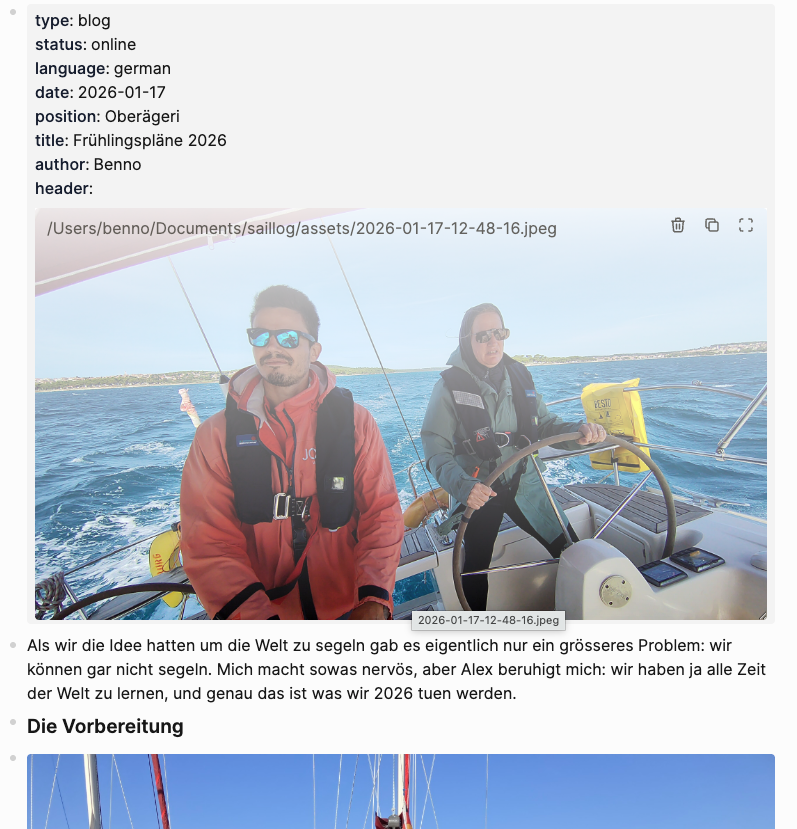
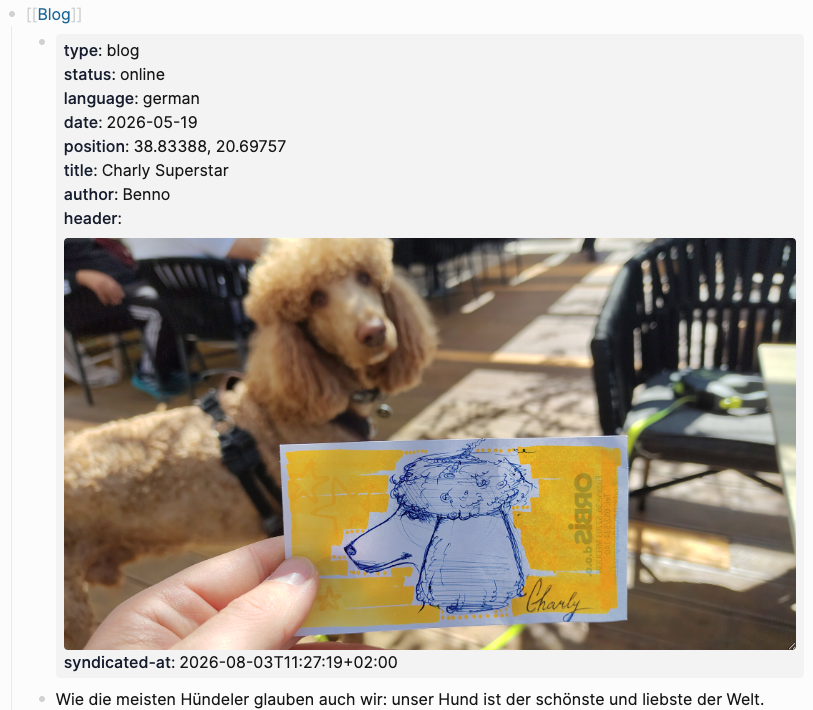
better example

diff --git a/README.md b/README.md
@@ -12,8 +12,8 @@ Use [Logseq](https://logseq.com) as your blog editor. Write posts in your graph 
 ```
 Logseq-Blogger uses the `logseq-blog` interface to retrieve blog posts from a Logseq Graph and forwards these blog posts to Syndicator using the `syndicate` interface. 
 
-* The [logseq-blog interface](#logseq-blog-interface) specified below. 
-* The `syndicator` interface specified in [syndicator](https://github.com/bbaumgartner/syndicator). 
+* The [logseq-blog interface](#logseq-blog-interface) is specified below. 
+* The `syndicator` interface is specified in [syndicator](https://github.com/bbaumgartner/syndicator). 
 
 ## Commands
 
@@ -71,18 +71,20 @@ Metadata lives in the first list item under a parent (commonly `[[Blog]]`). Sibl
 
 ```markdown
 - [[Blog]]
-  - type:: blog
-    status:: online
-    language:: german
-    date:: 2026-01-17
-    position:: Oberägeri
-    title:: Frühlingspläne 2026
-    author:: Benno
-    header:: ![alt](../assets/2026_01_17/featured.jpeg)
-  - First paragraph of content
-  - ### Section Heading
-  - More content here
-  - ![photo.jpg](../assets/2026_01_17/photo.jpg)
+	-
+	  type:: blog
+	  status:: online
+	  language:: german
+	  date:: 2026-05-19
+	  position:: 38.83388, 20.69757
+	  title:: Charly Superstar
+	  author:: Benno
+	  header:: ![charly-superstar.jpg](../assets/charly-superstar_1779210265357_0.jpg)
+	  syndicated-at:: 2026-08-03T11:27:19+02:00
+	- Wie die meisten Hündeler glauben auch wir: unser Hund ist der schönste und liebste der Welt.
+	- ![charly-drinkt.mp4](../assets/charly-drinkt_1785678123966_0.mp4)
+	- Charly scheint aber wirklich eine besondere Wirkung auf die Menschen zu haben.
+	- {{video https://youtube.com/shorts/_yNn9MUXBaw}}
 ```
 
 - Properties are indented under the `type:: blog` bullet
@@ -97,17 +99,17 @@ Properties at the top of the file; body as list items below.
 ```markdown
 type:: blog
 status:: online
-language:: english
-date:: 2024-06-14
-position:: 38.98000,1.430000
-title:: Renan
+language:: german
+date:: 2026-05-19
+position:: 38.83388, 20.69757
+title:: Charly Superstar
 author:: Benno
-header:: ![image](../assets/Renan/renand.jpg)
-
-- First paragraph of content
-- ### Section Heading
-- ![photo.jpg](../assets/Renan/photo.jpg)
-- More content
+header:: ![charly-superstar.jpg](../assets/charly-superstar_1779210265357_0.jpg)
+syndicated-at:: 2026-08-03T11:27:19+02:00
+- Wie die meisten Hündeler glauben auch wir: unser Hund ist der schönste und liebste der Welt.
+- ![charly-drinkt.mp4](../assets/charly-drinkt_1785678123966_0.mp4)
+- Charly scheint aber wirklich eine besondere Wirkung auf die Menschen zu haben.
+- {{video https://youtube.com/shorts/_yNn9MUXBaw}}
 ```
 
 - One blog post per page file
